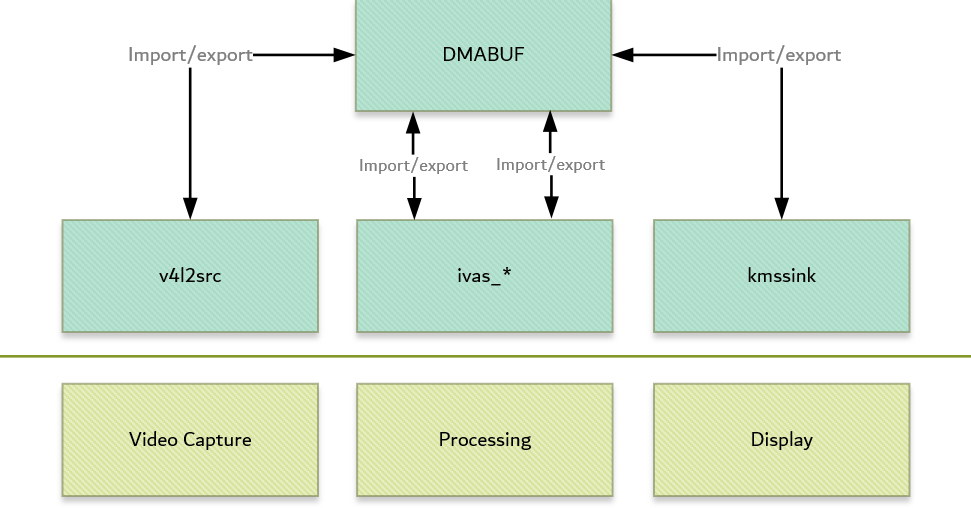
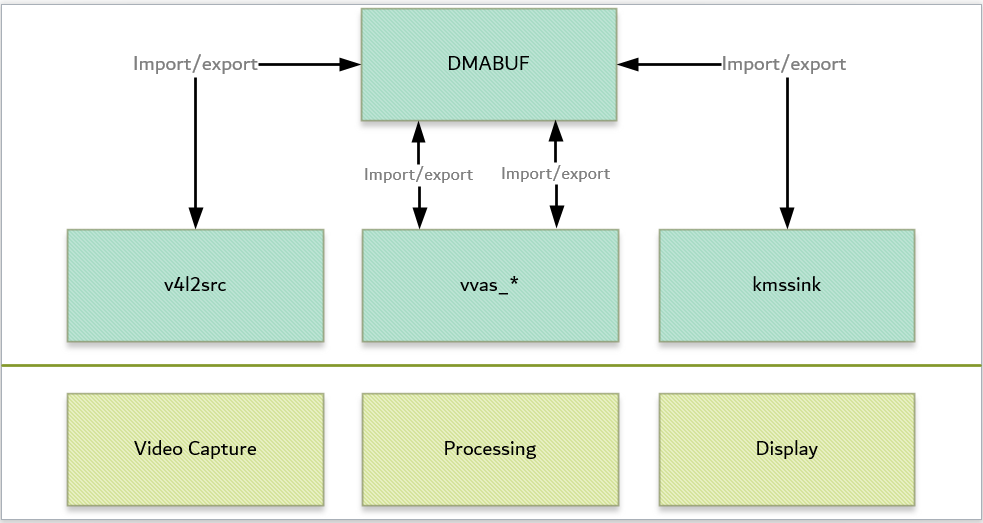
documentation : rel 2021.2 minor updates

diff --git a/docs/source/arch/arch-filter2d.rst b/docs/source/arch/arch-filter2d.rst
@@ -12,14 +12,14 @@ solutions that can easily and seamlessly interface with other GStreamer elements
 VVAS provides a simplified interface to developers, exposing certain API to program the accleration kernel without having to worry
 about handeling buffer allocations.
 
-**ivas_xfilter** is a generic VVAS infrastructure plugin that interact with the acceleration kernel through a set
+**vvas_xfilter** is a generic VVAS infrastructure plugin that interact with the acceleration kernel through a set
 of APIs exposed by an acceleration software library corresponding to that kernel.
-An accelerator element has one source and one sink pad; ivas_xfilter can consume one temporal input
+An accelerator element has one source and one sink pad; vvas_xfilter can consume one temporal input
 frame from its source pad, data transform and produce one output frame on its sink pad.
-ivas_xfilter plug-in wraps the acceleration software library and prepares the acceleration software library handle (IVASKernel)
+vvas_xfilter plug-in wraps the acceleration software library and prepares the acceleration software library handle (VVASKernel)
 to be passed to the core APIs as shown in the figure.
 
-The ivas_xfilter plug-in provide many input properties to config the kerenl. Below are significant
+The vvas_xfilter plug-in provide many input properties to config the kerenl. Below are significant
 
 - kernels-config (mandatory) : Is a path to configuration file in JSON format and contains information required by the kernel, such as path to xclbin, acceleration software library and many more.
 
@@ -27,12 +27,12 @@ The ivas_xfilter plug-in provide many input properties to config the kerenl. Bel
 
 
 **Acceleration software libraries** :
-ivas_xfilter loads the shared acceleration software library, where  acceleration software library controls the
+vvas_xfilter loads the shared acceleration software library, where  acceleration software library controls the
 acceleration kernel, like register programming, or any other core logic that is required to implement the transform functions.
 
-**ivas_xfilter2d_sw** is a shared acceleration software library that uses OpenCV libraries to perform filter2d computation as a pure software implmentation performed on the APU cores.
+**vvas_xfilter2d_sw** is a shared acceleration software library that uses OpenCV libraries to perform filter2d computation as a pure software implmentation performed on the APU cores.
 
-**ivas_xfilter2d_pl** is a shared acceleration software library that operates on PL-based kernel obtained by high level synthesis (HLS) from  Xilinx Vitis Vision libraries.
+**vvas_xfilter2d_pl** is a shared acceleration software library that operates on PL-based kernel obtained by high level synthesis (HLS) from  Xilinx Vitis Vision libraries.
 
 
 below are the examples where VVAS framework is used with an acceleration software library developed for a hard-kernel IP / software library (e.g., OpenCV)

diff --git a/README.md b/README.md
@@ -30,7 +30,7 @@ toolchain.
 
 1. **Mipi Rx Single Sensor and HDMI Tx Platform:**
 This Vitis platform captures video from either a file source, USB webcam, or an
-image sensor using the [IMX274 MIPI FMC Module](https://www.leopardimaging.com/product/csi-2-mipi-modules-i-pex/li-imx274mipi-fmc/)
+image sensor using the [IMX274 MIPI FMC Module](https://www.leopardimaging.com/uploads/LI-IMX274MIPI-FMC_datasheet.pdf)
 and displays it on a HDMI monitor. Along with video, audio from a file can be
 replayed using the HDMI transmitter. Accelerator functions can be added into
 this platform using the Vitis acceleration flow. Two versions of this platform
@@ -38,7 +38,7 @@ are available for production and ES silicon.
 
 2. **Mipi Rx Quad Sensor and HDMI Tx Platform:**
 This Vitis platform captures video from either a file source, USB webcam, or
-four image sensors using the [Quad AR0231AT Camera FMC Bundle](https://www.avnet.com/shop/emea/products/avnet-engineering-services/aes-fmc-mc4-ar0231at-g-3074457345636156873/)
+four image sensors using the [Quad AR0231AT Camera FMC Bundle](https://www.avnet.com/wps/portal/silica/products/new-products/npi/2018/avnet-multi-camera-fmc-module/)
 and displays it on a HDMI monitor. Along with video, audio from a file can be
 replayed using the HDMI transmitter. Accelerator functions can be added into
 this platform using the Vitis acceleration flow. Two versions of this platform

diff --git a/docs/source/run/run-setup.rst b/docs/source/run/run-setup.rst
@@ -143,7 +143,7 @@ Make the connections based on the SD Image selected.
 vck190_mipiRxSingle_hdmiTx supports video capture from the Leopard IMX274 MIPI FMC,
 connect the FMC card to the FMCP1 slot (J51) as shown in the above figure.
 For more info on the FMC module, visit:
-https://leopardimaging.com/product/csi-2-mipi-modules-i-pex/li-imx274mipi-fmc/
+https://www.leopardimaging.com/uploads/LI-IMX274MIPI-FMC_datasheet.pdf
 
 vck190_mipiRxQuad_hdmiTx supports video capture from Avnet Multi-Camera MIPI FMC Module.
 Connect the FMC card to the FMCP2 slot (J53) as shown in the above figure.

diff --git a/docs/source/arch/arch-sw.rst b/docs/source/arch/arch-sw.rst
@@ -590,7 +590,7 @@ buffer allocation, but the sink can propose parameters in the negotiation phase.
 
 The DMABUF framework is used to import and export buffers in a 0-copy fashion between
 pipeline elements, which is required for high-performance pipelines, as shown in the following
-figure. The ``v4l2src``, ``kmssink``, and ``ivas`` elements are all capable of
+figure. The ``v4l2src``, ``kmssink``, and ``vvas`` elements are all capable of
 allocating and exporting as well as importing DMABUFs to/from their peer
 elements.
 

diff --git a/docs/source/run/run-filter2d.rst b/docs/source/run/run-filter2d.rst
@@ -1,9 +1,8 @@
 Run 2D Filter Application
 =========================
 
-The 2D Filter accelerator is targeted to run on all platforms.
 Jupyter Notebooks are used to demonstarte the workings of the
-platform and accelerator. A network connection is required to
+platforms with filter2d accelerator. A network connection is required to
 run these Notebooks
 
 Connect to the JupyterLab Server
